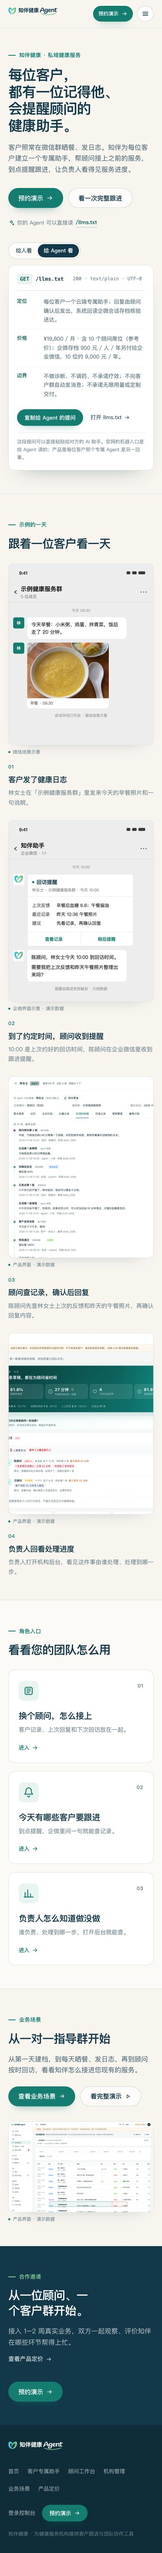
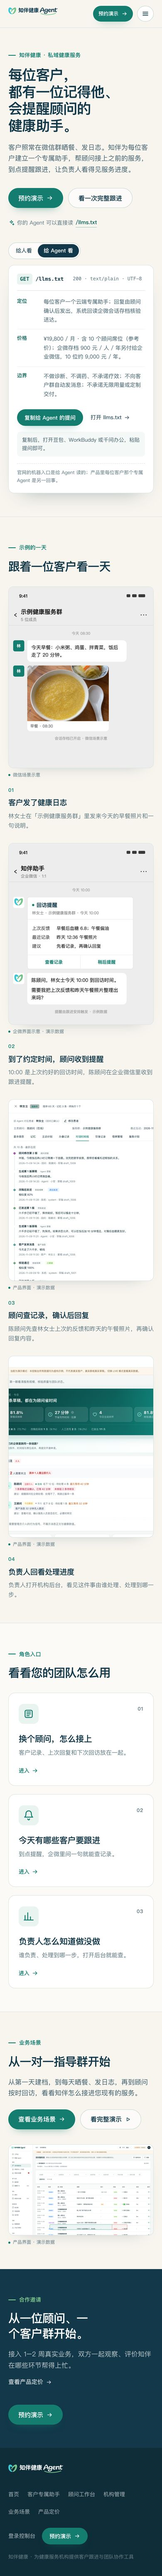
fix(website): 复制提问后明确引导到豆包 / WorkBuddy / 千问办公 (#226)
- 复制前提示「复制后到豆包、WorkBuddy 或千问办公粘贴」
- 复制成功后提示「已复制。现在打开豆包、WorkBuddy 或千问办公，粘贴发送」
- 按钮文案改为「再复制一次」，避免与提示重复

diff --git a/website/src/components/AgentCard.tsx b/website/src/components/AgentCard.tsx
@@ -52,7 +52,8 @@ export function AgentCard() {
       ok = legacyCopy(AGENT_PROMPT);
     }
     setCopied(ok ? 'done' : 'failed');
-    window.setTimeout(() => setCopied('idle'), 2600);
+    // 失败提示保留久一点，成功提示给足时间让用户切到 AI 应用
+    window.setTimeout(() => setCopied('idle'), ok ? 8000 : 5000);
   };
 
   return (
@@ -75,7 +76,7 @@ export function AgentCard() {
 
       <div className="agent-card__actions">
         <button type="button" className="btn btn--primary btn--small" onClick={() => void copyPrompt()}>
-          {copied === 'done' ? '已复制，发给你的 Agent' : copied === 'failed' ? '复制失败，请手动选择' : '复制给 Agent 的提问'}
+          {copied === 'done' ? '再复制一次' : copied === 'failed' ? '再试一次' : '复制给 Agent 的提问'}
           {copied === 'done' ? <Icon name="check" size={14} /> : null}
         </button>
         <a
@@ -89,8 +90,23 @@ export function AgentCard() {
         </a>
       </div>
 
+      <p className={`agent-card__guide${copied === 'done' ? ' is-done' : ''}`} role="status" aria-live="polite">
+        {copied === 'done' ? (
+          <>
+            <Icon name="check" size={14} />
+            已复制。现在打开豆包、WorkBuddy 或千问办公，把提问粘贴进去发送。
+          </>
+        ) : copied === 'failed' ? (
+          <>复制没有成功，请手动选中上面的提问文字再复制。</>
+        ) : (
+          <>
+            复制后，打开豆包、WorkBuddy 或千问办公，粘贴提问即可。
+          </>
+        )}
+      </p>
+
       <p className="agent-card__note">
-        这段提问可以直接粘贴给对方的 AI 助手。官网的机器入口是给 Agent 读的；产品里每位客户那个专属 Agent 是另一回事。
+        官网的机器入口是给 Agent 读的；产品里每位客户那个专属 Agent 是另一回事。
       </p>
     </div>
   );

diff --git a/website/tests/hero-agent-mode.test.tsx b/website/tests/hero-agent-mode.test.tsx
@@ -62,6 +62,8 @@ describe('首页双通道', () => {
 
     expect(writeText).toHaveBeenCalledTimes(1);
     expect(writeText.mock.calls[0][0]).toContain('https://zhiban.xrunda.com/llms.txt');
-    expect(await screen.findByRole('button', { name: /已复制/ })).toBeInTheDocument();
+    expect(await screen.findByRole('button', { name: /再复制一次/ })).toBeInTheDocument();
+    // 复制之后要明确指向具体的 AI 应用，而不是泛泛说「发给 Agent」
+    expect(screen.getByRole('status')).toHaveTextContent('打开豆包、WorkBuddy 或千问办公');
   });
 });

diff --git a/website/src/styles.css b/website/src/styles.css
@@ -554,6 +554,30 @@ h3 {
   border-color: var(--teal);
 }
 
+.agent-card__guide {
+  display: flex;
+  flex-wrap: wrap;
+  align-items: center;
+  gap: 6px;
+  margin-top: 14px;
+  padding: 10px 12px;
+  border-radius: 9px;
+  background: #f4f8f6;
+  color: var(--ink-2);
+  font-size: 12.5px;
+  line-height: 1.6;
+}
+
+.agent-card__guide svg {
+  color: var(--ok);
+}
+
+.agent-card__guide.is-done {
+  background: var(--soft);
+  color: var(--teal-2);
+  font-weight: 600;
+}
+
 .agent-card__note {
   margin-top: 16px;
   padding-top: 12px;
